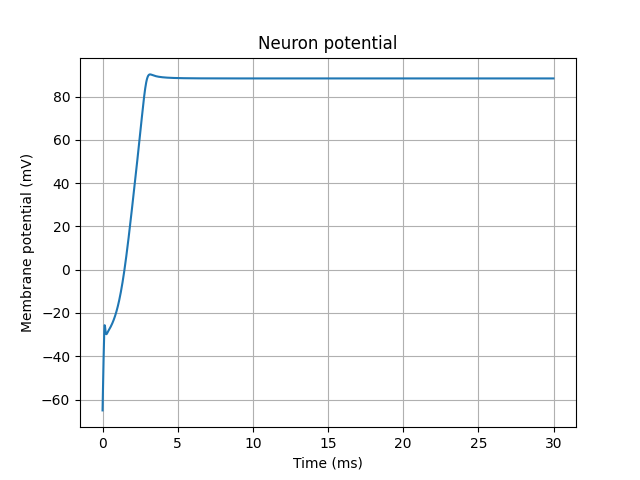
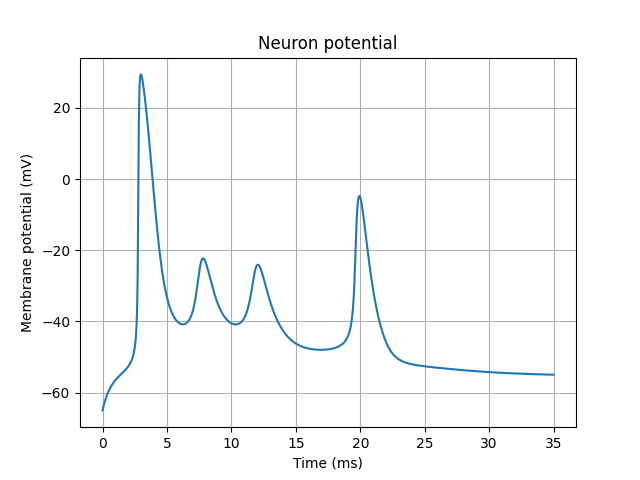
graphs and cleaning again

diff --git a/Full_Model.py b/Full_Model.py
@@ -6,8 +6,8 @@ from HH_model import *
 import time
 
 start_time = time.time()    # Monitor performance
-tmax = 30                   # Duration of the simulation
-i_na_trace = []             # Trace for graph purposes
+tmax = 35                   # Duration of the simulation
+i_na_trace = []             
 i_k_trace = []
 i_leak_trace = []
 
@@ -39,7 +39,7 @@ class Somatic_Voltage:
         i_k_trace.append(-i_k)
         i_leak_trace.append(-i_l)
 
-        deriv = (self.i_inj - i_na - i_k - i_l) / self.c_m                          # dV/dt
+        deriv = (self.i_inj - i_na - i_k - i_l) / self.c_m            # dV/dt
         return deriv
 
 class All_Derivatives:
@@ -111,15 +111,6 @@ class Model:
             i += step                                                      #  0: The solver successfully reached the end of t_span.
             print_const -= 1  
 
-        ax = plt.subplot()
-        ax.plot(bigt, bigv)
-        ax.set_xlabel('Time (ms)')
-        ax.set_ylabel('Membrane potential (mV)')
-        ax.set_title('Neuron potential')
-        plt.grid()
-        plt.savefig('Figures/Neuron Potential Full model')
-        plt.show()
-
         def graphs():
             ax = plt.subplot()
             ax.plot(bigt, bigo,c='r',label='o')
@@ -134,19 +125,15 @@ class Model:
             plt.savefig('Figures/Sodium inactivation and recovery states')
             plt.show()
             
-            t  = np.linspace(0, tmax, len(i_na_trace))
             ax = plt.subplot()
-            ax.plot(t, i_na_trace, 'b', label='Potassium Current')
-            ax.plot(t, i_k_trace,  'g', label='Sodium Current')
-            ax.plot(t, i_leak_trace,  'r', label='Leak Current')
-            ax.set_title('Channel currents')
+            ax.plot(bigt, bigv)
             ax.set_xlabel('Time (ms)')
-            ax.set_ylabel('Current (uA)')
+            ax.set_ylabel('Membrane potential (mV)')
+            ax.set_title('Neuron potential')
             plt.grid()
-            plt.legend()
-            plt.savefig('Figures/Channel currents')
+            plt.savefig('Figures/Neuron Potential Full model')
             plt.show()
-        # graphs()
+        graphs()
 
 if __name__ == '__main__':
     runner = Model()

diff --git a/HH_model.py b/HH_model.py
@@ -1,6 +1,6 @@
 import numpy as np
 import matplotlib.pyplot as plt
-# from scipy.integrate import solve_ivp
+from scipy.integrate import solve_ivp
 
 class HodgkinHuxley:      # Hodgkin-Huxley model
 
